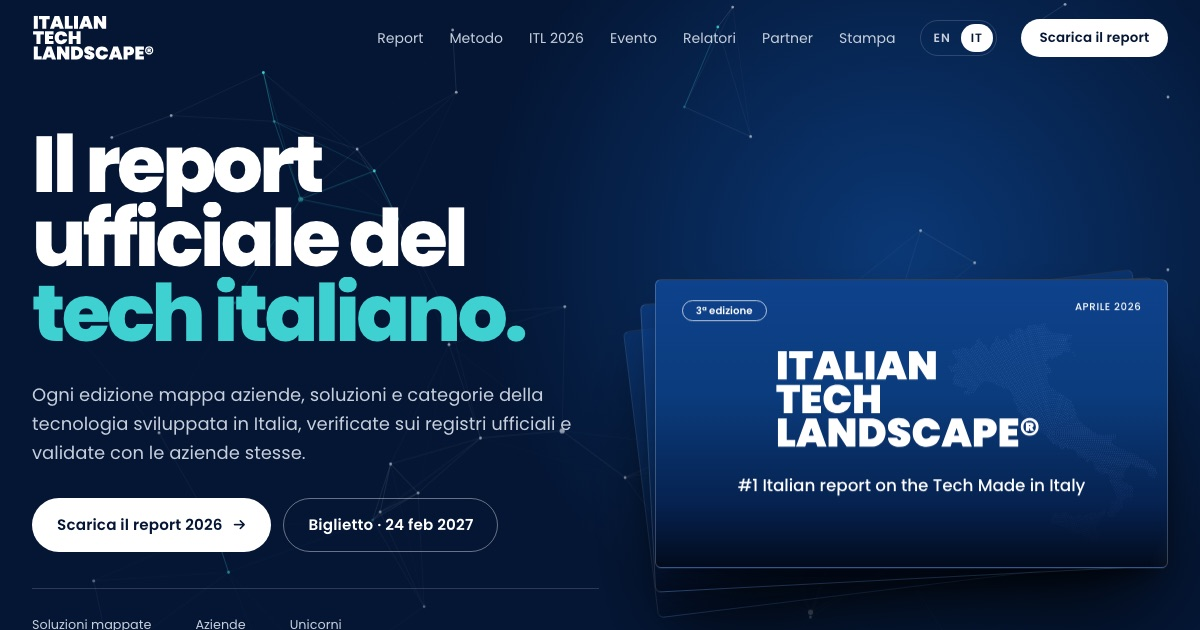
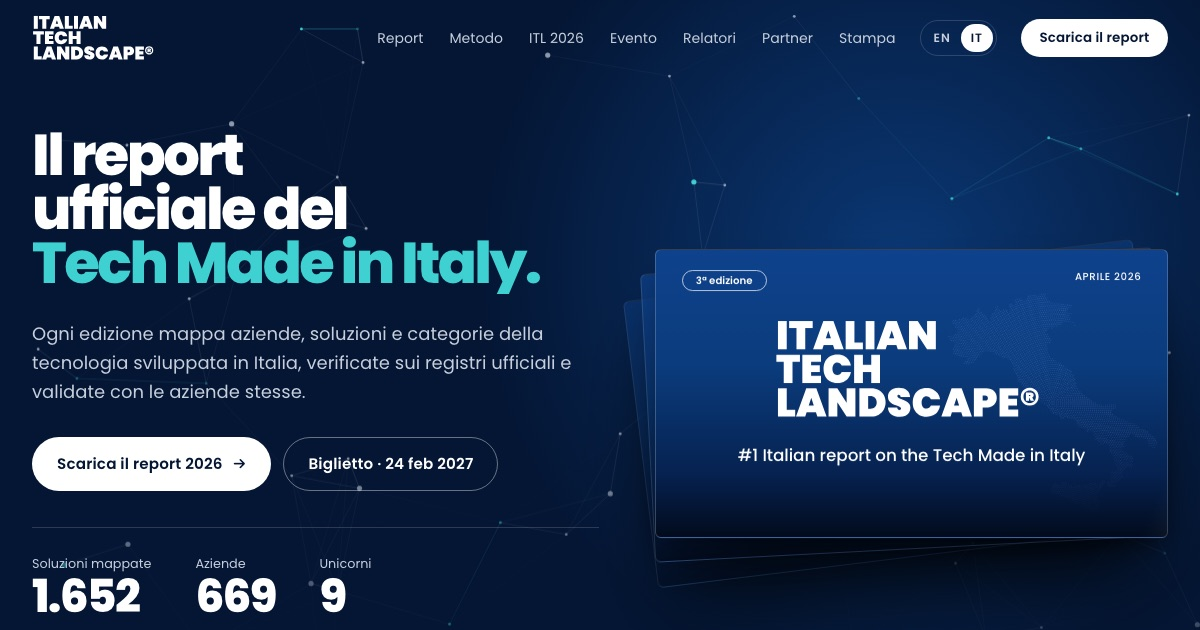
Client copy round: Italian H1, data heading, revenue figure, band and speaker titles, no PDF on submit
- IT headline: Il report ufficiale del Tech Made in Italy (own size so it stays on 3 lines)
- Audience CTA (IT): Scarica il report; findings heading: A report based on data / Un report basato sui dati
- Units in the big figures are white; 4th figure is now EUR 15,2bn total revenue (ITL 2026, PDF p. 26)
- Photo band: L'Italia e Tech! on the Italian page; speakers: Some of our speakers / Alcuni dei nostri Speakers
- Report form no longer opens the PDF: a thank-you panel replaces the form; the team is notified by email only
- New required field: How did you hear about us / Come hai conosciuto lo studio (values as on the client's form)
- [hidden] always wins over component display rules; Italian share image regenerated

diff --git a/it/index.html b/it/index.html
@@ -4,8 +4,8 @@
 <head>
   <meta charset="utf-8">
   <meta name="viewport" content="width=device-width, initial-scale=1, viewport-fit=cover">
-  <title>Italian Tech Landscape 2026 · Il report ufficiale del tech italiano</title>
-  <meta name="description" content="Il report ufficiale annuale sul tech italiano: 1.652 soluzioni e 669 aziende mappate e verificate. Scarica gratis il report 2026 e partecipa alla presentazione della 4ª edizione, 24 febbraio 2027, Milano." data-en="The official annual report on Italian tech: 1,652 solutions and 669 companies mapped and verified. Download the 2026 report free and join the 4th edition presentation, 24 February 2027, Milan." data-it="Il report ufficiale annuale sul tech italiano: 1.652 soluzioni e 669 aziende mappate e verificate. Scarica gratis il report 2026 e partecipa alla presentazione della 4ª edizione, 24 febbraio 2027, Milano.">
+  <title>Italian Tech Landscape 2026 · Il report ufficiale del Tech Made in Italy</title>
+  <meta name="description" content="Il report ufficiale annuale sul Tech Made in Italy: 1.652 soluzioni e 669 aziende mappate e verificate. Scarica gratis il report 2026 e partecipa alla presentazione della 4ª edizione, 24 febbraio 2027, Milano." data-en="The official annual report on Italian tech: 1,652 solutions and 669 companies mapped and verified. Download the 2026 report free and join the 4th edition presentation, 24 February 2027, Milan." data-it="Il report ufficiale annuale sul Tech Made in Italy: 1.652 soluzioni e 669 aziende mappate e verificate. Scarica gratis il report 2026 e partecipa alla presentazione della 4ª edizione, 24 febbraio 2027, Milano.">
   <meta name="robots" content="index, follow, max-image-preview:large">
   <meta name="theme-color" content="#041634">
   <link rel="canonical" href="https://italiantechlandscape.com/it/">
@@ -20,8 +20,8 @@
   <meta property="og:url" content="https://italiantechlandscape.com/it/">
   <meta property="og:locale" content="it_IT">
   <meta property="og:locale:alternate" content="en_GB">
-  <meta property="og:title" content="Italian Tech Landscape 2026 · Il report ufficiale del tech italiano">
-  <meta property="og:description" content="Il report ufficiale annuale sul tech italiano: 1.652 soluzioni e 669 aziende mappate e verificate. Scarica gratis il report 2026 e partecipa alla presentazione della 4ª edizione, 24 febbraio 2027, Milano.">
+  <meta property="og:title" content="Italian Tech Landscape 2026 · Il report ufficiale del Tech Made in Italy">
+  <meta property="og:description" content="Il report ufficiale annuale sul Tech Made in Italy: 1.652 soluzioni e 669 aziende mappate e verificate. Scarica gratis il report 2026 e partecipa alla presentazione della 4ª edizione, 24 febbraio 2027, Milano.">
   <meta property="og:image" content="https://italiantechlandscape.com/assets/og/og-it.jpg">
   <meta property="og:image:width" content="1200">
   <meta property="og:image:height" content="630">
@@ -79,6 +79,7 @@
     img, svg, canvas, video { display: block; max-width: 100%; }
     a { color: inherit; text-decoration-thickness: 1px; text-underline-offset: .22em; }
     button { font: inherit; color: inherit; }
+    [hidden] { display: none !important; }
     .sr-only { position: absolute; width: 1px; height: 1px; overflow: hidden; clip: rect(0 0 0 0); white-space: nowrap; }
     .skip { position: fixed; left: 12px; top: -60px; z-index: 100; background: var(--white); color: var(--ink); padding: 10px 14px; font-weight: 600; transition: top .2s; }
     .skip:focus { top: 12px; }
@@ -159,8 +160,10 @@
 
     /* Line mask rise */
     .lines .line { display: block; overflow: hidden; padding-bottom: .06em; margin-bottom: -.06em; white-space: nowrap; }
-    /* three fixed lines in both languages: sized so the longest ("ufficiale del", "tech italiano.") fits the copy column */
+    /* three fixed lines in both languages: sized so the longest ("Tech Made in Italy.") fits the copy column */
     .hero .display { font-size: clamp(3.1rem, 6.6vw, 6rem); }
+    /* Italian line 3 ("Tech Made in Italy.") is about 1.6x the English one: smaller size keeps it to 3 lines */
+    html[lang="it"] .hero .display { font-size: clamp(2.4rem, 4.8vw, 4.4rem); }
     .lines .line > span { display: inline-block; }
     .js .lines .line > span { transform: translateY(108%); animation: rise var(--dur-hero) var(--ease-out) forwards; }
     .js .lines .line:nth-child(2) > span { animation-delay: var(--stagger); }
@@ -238,7 +241,8 @@
     .figure::before { content: ""; position: absolute; left: 0; bottom: -1px; height: 1px; width: 100%; background: var(--accent); transform: scaleX(0); transform-origin: left; transition: transform 1.4s var(--ease-io); }
     .figure.in::before { transform: scaleX(1); }
     .big { font-size: clamp(4.6rem, 15vw, 13rem); line-height: .82; letter-spacing: -.07em; white-space: nowrap; }
-    .big .unit { color: var(--accent); }
+    .big .unit { color: inherit; }
+    .big .unit-sm { font-size: .42em; letter-spacing: -.02em; margin-left: .06em; }
     .figure-text { display: grid; gap: 12px; padding-bottom: 10px; }
     .figure-text p { margin: 0; font-size: clamp(1rem, 1.4vw, 1.15rem); }
     .figure-text .source { color: var(--on-ink-muted); }
@@ -400,6 +404,10 @@
     .check input { width: 20px; height: 20px; margin: 2px 0 0; accent-color: var(--accent); }
     .check input[aria-invalid="true"] { outline: 2px solid #F2A3B6; outline-offset: 2px; }
     .hp { position: absolute; left: -10000px; width: 1px; height: 1px; overflow: hidden; }
+    .gate-done { display: grid; gap: 16px; justify-items: start; padding: 8px 0 4px; }
+    .gate-done:focus { outline: none; }
+    .gate-done-mark { width: 52px; height: 52px; border-radius: 50%; background: rgba(62, 209, 209, .14); border: 1px solid var(--accent); position: relative; }
+    .gate-done-mark::after { content: ""; position: absolute; left: 17px; top: 15px; width: 16px; height: 9px; border-left: 2px solid var(--accent); border-bottom: 2px solid var(--accent); transform: rotate(-45deg); }
     .privacy-link { font-size: .8rem; color: var(--on-ink-muted); margin: -6px 0 0 34px; }
     .form-status { margin: 0; font-size: .9rem; min-height: 1.4em; }
     .form-status.ok { color: var(--accent); }
@@ -617,7 +625,7 @@
       <h1 class="display lines">
         <span class="line"><span data-en="The official" data-it="Il report">Il report</span></span>
         <span class="line"><span data-en="report on" data-it="ufficiale del">ufficiale del</span></span>
-        <span class="line"><span class="accent" data-en="Italian tech." data-it="tech italiano.">tech italiano.</span></span>
+        <span class="line"><span class="accent" data-en="Italian tech." data-it="Tech Made in Italy.">Tech Made in Italy.</span></span>
       </h1>
       <p class="lede after after-1" data-en="Every edition maps the companies, solutions and categories of technology developed in Italy, checked against official records and validated with the companies themselves." data-it="Ogni edizione mappa aziende, soluzioni e categorie della tecnologia sviluppata in Italia, verificate sui registri ufficiali e validate con le aziende stesse.">Ogni edizione mappa aziende, soluzioni e categorie della tecnologia sviluppata in Italia, verificate sui registri ufficiali e validate con le aziende stesse.</p>
       <div class="hero-actions after after-2">
@@ -687,7 +695,7 @@
 
     <div class="audience-head">
       <h3 class="h2 tr" id="audience-for"><span data-en="Written for the people who build, buy and back Italian tech." data-it="Pensato per chi crea, sceglie e finanzia il tech italiano.">Pensato per chi crea, sceglie e finanzia il tech italiano.</span></h3>
-      <div class="rv" style="--d:.15"><button type="button" class="btn btn-primary" data-open-gate><span data-en="Get your copy" data-it="Scarica la tua copia">Scarica la tua copia</span> <span class="arrow" aria-hidden="true">→</span></button></div>
+      <div class="rv" style="--d:.15"><button type="button" class="btn btn-primary" data-open-gate><span data-en="Get your copy" data-it="Scarica il report">Scarica il report</span> <span class="arrow" aria-hidden="true">→</span></button></div>
     </div>
     <dl class="audience" aria-labelledby="audience-for">
       <div class="rv">
@@ -723,7 +731,7 @@
   <div class="wrap">
     <div class="section-head">
       <p class="eyebrow rv" data-en="Key findings · 2026 edition" data-it="Dati chiave · edizione 2026">Dati chiave · edizione 2026</p>
-      <h2 class="h2 tr" id="findings-title"><span data-en="The sector, in four numbers." data-it="Il settore, in quattro numeri.">Il settore, in quattro numeri.</span></h2>
+      <h2 class="h2 tr" id="findings-title"><span data-en="A report based on data." data-it="Un report basato sui dati.">Un report basato sui dati.</span></h2>
     </div>
     <ul class="figures">
       <li class="figure rv">
@@ -748,10 +756,10 @@
         </div>
       </li>
       <li class="figure rv">
-        <p class="big num"><span data-count="9">9</span></p>
+        <p class="big num"><span data-count="15.2" data-decimals="1" data-prefix="€">€15,2</span><span class="unit unit-sm" data-en="bn" data-it="mld">mld</span></p>
         <div class="figure-text">
-          <p data-en="unicorns in the mapped ecosystem." data-it="unicorni nell'ecosistema mappato.">unicorni nell'ecosistema mappato.</p>
-          <p class="source">ITL 2026 · p. 19</p>
+          <p data-en="in total revenue across all the mapped categories." data-it="di fatturato totale, sommando tutte le categorie mappate.">di fatturato totale, sommando tutte le categorie mappate.</p>
+          <p class="source">ITL 2026 · p. 26</p>
         </div>
       </li>
     </ul>
@@ -763,7 +771,7 @@
   <img src="/assets/img/itl26/itl26-223.webp" alt="A full auditorium during the ITL 2026 presentation at Monterosa 91, Milan" data-parallax=".18" width="1280" height="854">
   <div class="wrap band-copy">
     <p class="eyebrow rv" data-en="ITL 2026 · Monterosa 91, Milan" data-it="ITL 2026 · Monterosa 91, Milano">ITL 2026 · Monterosa 91, Milano</p>
-    <p class="band-title" data-chars>Italy is Tech!</p>
+    <p class="band-title" data-chars data-chars-en="Italy is Tech!" data-chars-it="L’Italia è Tech!">L’Italia è Tech!</p>
   </div>
 </section>
 
@@ -903,7 +911,7 @@
     <div class="speakers-head">
       <div class="section-head">
         <p class="eyebrow rv" data-en="Speakers · 24 February 2027" data-it="Relatori · 24 febbraio 2027">Relatori · 24 febbraio 2027</p>
-        <h2 class="h2 tr" id="speakers-title"><span data-en="Who takes the stage." data-it="Chi sale sul palco.">Chi sale sul palco.</span></h2>
+        <h2 class="h2 tr" id="speakers-title"><span data-en="Some of our speakers." data-it="Alcuni dei nostri Speakers.">Alcuni dei nostri Speakers.</span></h2>
       </div>
       <div class="soon rv">
         <span class="btn btn-ghost soon-btn" aria-disabled="true"><span data-en="See the 2027 program" data-it="Scopri il programma 2027">Scopri il programma 2027</span></span>
@@ -1251,9 +1259,15 @@
     <div class="gate-head">
       <div style="display:grid;gap:10px">
         <h2 class="h3" id="gate-title" data-en="Download the 2026 report" data-it="Scarica il report 2026">Scarica il report 2026</h2>
-        <p class="source" data-en="ITL 2026, 3rd edition · PDF, 42 MB. Tell us who you are first: the report opens in a new tab after you submit." data-it="ITL 2026, 3ª edizione · PDF, 42 MB. Dicci prima chi sei: il report si apre in una nuova scheda dopo l'invio.">ITL 2026, 3ª edizione · PDF, 42 MB. Dicci prima chi sei: il report si apre in una nuova scheda dopo l'invio.</p>
+        <p class="source" data-en="ITL 2026, 3rd edition. Leave your details and our team will contact you by email." data-it="ITL 2026, 3ª edizione. Lascia i tuoi dati e il nostro team ti contatterà via email.">ITL 2026, 3ª edizione. Lascia i tuoi dati e il nostro team ti contatterà via email.</p>
       </div>
       <button type="button" class="x" data-close aria-label="Chiudi" data-en-aria="Close" data-it-aria="Chiudi">×</button>
+    </div>
+    <div class="gate-done" id="report-done" role="status" tabindex="-1" hidden>
+      <span class="gate-done-mark" aria-hidden="true"></span>
+      <h3 class="h3" data-en="Thank you for your interest in the report." data-it="Grazie per l'interesse verso il report.">Grazie per l'interesse verso il report.</h3>
+      <p class="prose" data-en="We have received your details. Our team will contact you by email soon." data-it="Abbiamo ricevuto i tuoi dati. Il nostro team ti contatterà presto via email.">Abbiamo ricevuto i tuoi dati. Il nostro team ti contatterà presto via email.</p>
+      <button type="button" class="btn btn-ghost" data-close><span data-en="Back to the page" data-it="Torna alla pagina">Torna alla pagina</span></button>
     </div>
     <form class="form" id="report-form" novalidate>
       <input type="hidden" name="type" value="report">
@@ -1390,6 +1404,18 @@
           <option value="Wearable Tech">Wearable Tech</option>
           <option value="Software House">Software House</option>
           <option value="Tutte" data-en="All categories" data-it="Tutte le categorie">Tutte le categorie</option>
+          <option value="Altro" data-en="Other" data-it="Altro">Altro</option>
+        </select>
+      </div>
+      <div class="field">
+        <label for="r-source" data-en="How did you hear about us?" data-it="Come hai conosciuto lo studio?">Come hai conosciuto lo studio?</label>
+        <select id="r-source" name="source" required>
+          <option value="" data-en="Select" data-it="Seleziona">Seleziona</option>
+          <option value="Social media">Social media</option>
+          <option value="Internet" data-en="Web search" data-it="Ricerca sul web">Ricerca sul web</option>
+          <option value="Newsletter">Newsletter</option>
+          <option value="Referenze" data-en="Recommendation" data-it="Passaparola o referenze">Passaparola o referenze</option>
+          <option value="Evento" data-en="Event" data-it="Evento">Evento</option>
           <option value="Altro" data-en="Other" data-it="Altro">Altro</option>
         </select>
       </div>

diff --git a/index-v4.html b/index-v4.html
@@ -4,7 +4,7 @@
   <meta charset="utf-8">
   <meta name="viewport" content="width=device-width, initial-scale=1, viewport-fit=cover">
   <title>Italian Tech Landscape 2026 · The official report on Italian tech</title>
-  <meta name="description" content="The official annual report on Italian tech: 1,652 solutions and 669 companies mapped and verified. Download the 2026 report free and join the 4th edition presentation, 24 February 2027, Milan." data-en="The official annual report on Italian tech: 1,652 solutions and 669 companies mapped and verified. Download the 2026 report free and join the 4th edition presentation, 24 February 2027, Milan." data-it="Il report ufficiale annuale sul tech italiano: 1.652 soluzioni e 669 aziende mappate e verificate. Scarica gratis il report 2026 e partecipa alla presentazione della 4ª edizione, 24 febbraio 2027, Milano.">
+  <meta name="description" content="The official annual report on Italian tech: 1,652 solutions and 669 companies mapped and verified. Download the 2026 report free and join the 4th edition presentation, 24 February 2027, Milan." data-en="The official annual report on Italian tech: 1,652 solutions and 669 companies mapped and verified. Download the 2026 report free and join the 4th edition presentation, 24 February 2027, Milan." data-it="Il report ufficiale annuale sul Tech Made in Italy: 1.652 soluzioni e 669 aziende mappate e verificate. Scarica gratis il report 2026 e partecipa alla presentazione della 4ª edizione, 24 febbraio 2027, Milano.">
   <meta name="robots" content="index, follow, max-image-preview:large">
   <meta name="theme-color" content="#041634">
   <link rel="canonical" href="https://italiantechlandscape.com/">
@@ -78,6 +78,7 @@
     img, svg, canvas, video { display: block; max-width: 100%; }
     a { color: inherit; text-decoration-thickness: 1px; text-underline-offset: .22em; }
     button { font: inherit; color: inherit; }
+    [hidden] { display: none !important; }
     .sr-only { position: absolute; width: 1px; height: 1px; overflow: hidden; clip: rect(0 0 0 0); white-space: nowrap; }
     .skip { position: fixed; left: 12px; top: -60px; z-index: 100; background: var(--white); color: var(--ink); padding: 10px 14px; font-weight: 600; transition: top .2s; }
     .skip:focus { top: 12px; }
@@ -158,8 +159,10 @@
 
     /* Line mask rise */
     .lines .line { display: block; overflow: hidden; padding-bottom: .06em; margin-bottom: -.06em; white-space: nowrap; }
-    /* three fixed lines in both languages: sized so the longest ("ufficiale del", "tech italiano.") fits the copy column */
+    /* three fixed lines in both languages: sized so the longest ("Tech Made in Italy.") fits the copy column */
     .hero .display { font-size: clamp(3.1rem, 6.6vw, 6rem); }
+    /* Italian line 3 ("Tech Made in Italy.") is about 1.6x the English one: smaller size keeps it to 3 lines */
+    html[lang="it"] .hero .display { font-size: clamp(2.4rem, 4.8vw, 4.4rem); }
     .lines .line > span { display: inline-block; }
     .js .lines .line > span { transform: translateY(108%); animation: rise var(--dur-hero) var(--ease-out) forwards; }
     .js .lines .line:nth-child(2) > span { animation-delay: var(--stagger); }
@@ -237,7 +240,8 @@
     .figure::before { content: ""; position: absolute; left: 0; bottom: -1px; height: 1px; width: 100%; background: var(--accent); transform: scaleX(0); transform-origin: left; transition: transform 1.4s var(--ease-io); }
     .figure.in::before { transform: scaleX(1); }
     .big { font-size: clamp(4.6rem, 15vw, 13rem); line-height: .82; letter-spacing: -.07em; white-space: nowrap; }
-    .big .unit { color: var(--accent); }
+    .big .unit { color: inherit; }
+    .big .unit-sm { font-size: .42em; letter-spacing: -.02em; margin-left: .06em; }
     .figure-text { display: grid; gap: 12px; padding-bottom: 10px; }
     .figure-text p { margin: 0; font-size: clamp(1rem, 1.4vw, 1.15rem); }
     .figure-text .source { color: var(--on-ink-muted); }
@@ -399,6 +403,10 @@
     .check input { width: 20px; height: 20px; margin: 2px 0 0; accent-color: var(--accent); }
     .check input[aria-invalid="true"] { outline: 2px solid #F2A3B6; outline-offset: 2px; }
     .hp { position: absolute; left: -10000px; width: 1px; height: 1px; overflow: hidden; }
+    .gate-done { display: grid; gap: 16px; justify-items: start; padding: 8px 0 4px; }
+    .gate-done:focus { outline: none; }
+    .gate-done-mark { width: 52px; height: 52px; border-radius: 50%; background: rgba(62, 209, 209, .14); border: 1px solid var(--accent); position: relative; }
+    .gate-done-mark::after { content: ""; position: absolute; left: 17px; top: 15px; width: 16px; height: 9px; border-left: 2px solid var(--accent); border-bottom: 2px solid var(--accent); transform: rotate(-45deg); }
     .privacy-link { font-size: .8rem; color: var(--on-ink-muted); margin: -6px 0 0 34px; }
     .form-status { margin: 0; font-size: .9rem; min-height: 1.4em; }
     .form-status.ok { color: var(--accent); }
@@ -616,7 +624,7 @@
       <h1 class="display lines">
         <span class="line"><span data-en="The official" data-it="Il report">The official</span></span>
         <span class="line"><span data-en="report on" data-it="ufficiale del">report on</span></span>
-        <span class="line"><span class="accent" data-en="Italian tech." data-it="tech italiano.">Italian tech.</span></span>
+        <span class="line"><span class="accent" data-en="Italian tech." data-it="Tech Made in Italy.">Italian tech.</span></span>
       </h1>
       <p class="lede after after-1" data-en="Every edition maps the companies, solutions and categories of technology developed in Italy, checked against official records and validated with the companies themselves." data-it="Ogni edizione mappa aziende, soluzioni e categorie della tecnologia sviluppata in Italia, verificate sui registri ufficiali e validate con le aziende stesse.">Every edition maps the companies, solutions and categories of technology developed in Italy, checked against official records and validated with the companies themselves.</p>
       <div class="hero-actions after after-2">
@@ -686,7 +694,7 @@
 
     <div class="audience-head">
       <h3 class="h2 tr" id="audience-for"><span data-en="Written for the people who build, buy and back Italian tech." data-it="Pensato per chi crea, sceglie e finanzia il tech italiano.">Written for the people who build, buy and back Italian tech.</span></h3>
-      <div class="rv" style="--d:.15"><button type="button" class="btn btn-primary" data-open-gate><span data-en="Get your copy" data-it="Scarica la tua copia">Get your copy</span> <span class="arrow" aria-hidden="true">→</span></button></div>
+      <div class="rv" style="--d:.15"><button type="button" class="btn btn-primary" data-open-gate><span data-en="Get your copy" data-it="Scarica il report">Get your copy</span> <span class="arrow" aria-hidden="true">→</span></button></div>
     </div>
     <dl class="audience" aria-labelledby="audience-for">
       <div class="rv">
@@ -722,7 +730,7 @@
   <div class="wrap">
     <div class="section-head">
       <p class="eyebrow rv" data-en="Key findings · 2026 edition" data-it="Dati chiave · edizione 2026">Key findings · 2026 edition</p>
-      <h2 class="h2 tr" id="findings-title"><span data-en="The sector, in four numbers." data-it="Il settore, in quattro numeri.">The sector, in four numbers.</span></h2>
+      <h2 class="h2 tr" id="findings-title"><span data-en="A report based on data." data-it="Un report basato sui dati.">A report based on data.</span></h2>
     </div>
     <ul class="figures">
       <li class="figure rv">
@@ -747,10 +755,10 @@
         </div>
       </li>
       <li class="figure rv">
-        <p class="big num"><span data-count="9">9</span></p>
+        <p class="big num"><span data-count="15.2" data-decimals="1" data-prefix="€">€15,2</span><span class="unit unit-sm" data-en="bn" data-it="mld">bn</span></p>
         <div class="figure-text">
-          <p data-en="unicorns in the mapped ecosystem." data-it="unicorni nell'ecosistema mappato.">unicorns in the mapped ecosystem.</p>
-          <p class="source">ITL 2026 · p. 19</p>
+          <p data-en="in total revenue across all the mapped categories." data-it="di fatturato totale, sommando tutte le categorie mappate.">in total revenue across all the mapped categories.</p>
+          <p class="source">ITL 2026 · p. 26</p>
         </div>
       </li>
     </ul>
@@ -762,7 +770,7 @@
   <img src="assets/img/itl26/itl26-223.webp" alt="A full auditorium during the ITL 2026 presentation at Monterosa 91, Milan" data-parallax=".18" width="1280" height="854">
   <div class="wrap band-copy">
     <p class="eyebrow rv" data-en="ITL 2026 · Monterosa 91, Milan" data-it="ITL 2026 · Monterosa 91, Milano">ITL 2026 · Monterosa 91, Milan</p>
-    <p class="band-title" data-chars>Italy is Tech!</p>
+    <p class="band-title" data-chars data-chars-en="Italy is Tech!" data-chars-it="L’Italia è Tech!">Italy is Tech!</p>
   </div>
 </section>
 
@@ -902,7 +910,7 @@
     <div class="speakers-head">
       <div class="section-head">
         <p class="eyebrow rv" data-en="Speakers · 24 February 2027" data-it="Relatori · 24 febbraio 2027">Speakers · 24 February 2027</p>
-        <h2 class="h2 tr" id="speakers-title"><span data-en="Who takes the stage." data-it="Chi sale sul palco.">Who takes the stage.</span></h2>
+        <h2 class="h2 tr" id="speakers-title"><span data-en="Some of our speakers." data-it="Alcuni dei nostri Speakers.">Some of our speakers.</span></h2>
       </div>
       <div class="soon rv">
         <span class="btn btn-ghost soon-btn" aria-disabled="true"><span data-en="See the 2027 program" data-it="Scopri il programma 2027">See the 2027 program</span></span>
@@ -1250,9 +1258,15 @@
     <div class="gate-head">
       <div style="display:grid;gap:10px">
         <h2 class="h3" id="gate-title" data-en="Download the 2026 report" data-it="Scarica il report 2026">Download the 2026 report</h2>
-        <p class="source" data-en="ITL 2026, 3rd edition · PDF, 42 MB. Tell us who you are first: the report opens in a new tab after you submit." data-it="ITL 2026, 3ª edizione · PDF, 42 MB. Dicci prima chi sei: il report si apre in una nuova scheda dopo l'invio.">ITL 2026, 3rd edition · PDF, 42 MB. Tell us who you are first: the report opens in a new tab after you submit.</p>
+        <p class="source" data-en="ITL 2026, 3rd edition. Leave your details and our team will contact you by email." data-it="ITL 2026, 3ª edizione. Lascia i tuoi dati e il nostro team ti contatterà via email.">ITL 2026, 3rd edition. Leave your details and our team will contact you by email.</p>
       </div>
       <button type="button" class="x" data-close aria-label="Close" data-en-aria="Close" data-it-aria="Chiudi">×</button>
+    </div>
+    <div class="gate-done" id="report-done" role="status" tabindex="-1" hidden>
+      <span class="gate-done-mark" aria-hidden="true"></span>
+      <h3 class="h3" data-en="Thank you for your interest in the report." data-it="Grazie per l'interesse verso il report.">Thank you for your interest in the report.</h3>
+      <p class="prose" data-en="We have received your details. Our team will contact you by email soon." data-it="Abbiamo ricevuto i tuoi dati. Il nostro team ti contatterà presto via email.">We have received your details. Our team will contact you by email soon.</p>
+      <button type="button" class="btn btn-ghost" data-close><span data-en="Back to the page" data-it="Torna alla pagina">Back to the page</span></button>
     </div>
     <form class="form" id="report-form" novalidate>
       <input type="hidden" name="type" value="report">
@@ -1389,6 +1403,18 @@
           <option value="Wearable Tech">Wearable Tech</option>
           <option value="Software House">Software House</option>
           <option value="Tutte" data-en="All categories" data-it="Tutte le categorie">All categories</option>
+          <option value="Altro" data-en="Other" data-it="Altro">Other</option>
+        </select>
+      </div>
+      <div class="field">
+        <label for="r-source" data-en="How did you hear about us?" data-it="Come hai conosciuto lo studio?">How did you hear about us?</label>
+        <select id="r-source" name="source" required>
+          <option value="" data-en="Select" data-it="Seleziona">Select</option>
+          <option value="Social media">Social media</option>
+          <option value="Internet" data-en="Web search" data-it="Ricerca sul web">Web search</option>
+          <option value="Newsletter">Newsletter</option>
+          <option value="Referenze" data-en="Recommendation" data-it="Passaparola o referenze">Recommendation</option>
+          <option value="Evento" data-en="Event" data-it="Evento">Event</option>
           <option value="Altro" data-en="Other" data-it="Altro">Other</option>
         </select>
       </div>

diff --git a/site.js b/site.js
@@ -4,7 +4,6 @@
 
   /* ================= Config ================= */
   const ENDPOINT = "/api/leads.php";   // OVH mail handler, see api/leads.php
-  const REPORT_URL = "https://www.latechmadeinitaly.com/wp-content/uploads/2026/04/ITL-26-3rd-Edition-1.pdf";
   const EVENT_DAY = new Date("2027-02-24T00:00:00+01:00");
 
   const $ = (s, c = document) => c.querySelector(s);
@@ -14,10 +13,10 @@
 
   /* ================= Language ================= */
   const MSG = {
-    en: { sending: "Sending…", invalid: "Please complete the required fields.", reportOk: "Thank you. The report is opening in a new tab.", partnerOk: "Thank you. We will reply to your enquiry shortly.", error: "Something went wrong. Please try again in a moment." },
-    it: { sending: "Invio in corso…", invalid: "Compila i campi obbligatori.", reportOk: "Grazie. Il report si apre in una nuova scheda.", partnerOk: "Grazie. Ti risponderemo a breve.", error: "Qualcosa non ha funzionato. Riprova tra poco." }
+    en: { sending: "Sending…", invalid: "Please complete the required fields.", reportOk: "Thank you for your interest in the report. Our team will contact you by email soon.", partnerOk: "Thank you. We will reply to your enquiry shortly.", error: "Something went wrong. Please try again in a moment." },
+    it: { sending: "Invio in corso…", invalid: "Compila i campi obbligatori.", reportOk: "Grazie per l'interesse verso il report. Il nostro team ti contatterà presto via email.", partnerOk: "Grazie. Ti risponderemo a breve.", error: "Qualcosa non ha funzionato. Riprova tra poco." }
   };
-  const TITLE = { en: "Italian Tech Landscape 2026 · The official report on Italian tech", it: "Italian Tech Landscape 2026 · Il report ufficiale del tech italiano" };
+  const TITLE = { en: "Italian Tech Landscape 2026 · The official report on Italian tech", it: "Italian Tech Landscape 2026 · Il report ufficiale del Tech Made in Italy" };
   // Each language has its own URL (/ and /it/) so search engines index both
   const PAGE_LANG = document.documentElement.lang === "it" ? "it" : "en";
   const LANG_URL = { en: "/", it: "/it/" };
@@ -65,7 +64,8 @@
 
   /* ================= Char split (band title) ================= */
   $$("[data-chars]").forEach((el) => {
-    const text = el.textContent;
+    // per-language text lives in data-chars-<lang> (not data-<lang>, so applyLang never replaces the letter spans)
+    const text = el.getAttribute("data-chars-" + PAGE_LANG) || el.textContent;
     el.setAttribute("aria-label", text);
     el.textContent = "";
     [...text].forEach((c, i) => {
@@ -405,7 +405,13 @@
     try {
       const res = await fetch(ENDPOINT, { method: "POST", headers: { "Content-Type": "application/json" }, body: JSON.stringify(serialise(form)) });
       if (!res.ok) throw new Error("HTTP " + res.status);
-      if (form.id === "report-form") { setStatus(form, m.reportOk, "ok"); store("itl-downloaded", "1"); window.open(REPORT_URL, "_blank", "noopener"); }
+      if (form.id === "report-form") {
+        // No PDF and no email to the visitor: the team is notified and gets in touch. Show the thank-you panel.
+        setStatus(form, m.reportOk, "ok");
+        store("itl-downloaded", "1");
+        const done = $("#report-done");
+        if (done) { form.hidden = true; done.hidden = false; done.focus(); }
+      }
       else { setStatus(form, m.partnerOk, "ok"); form.reset(); }
     } catch (err) {
       setStatus(form, m.error, "err");

diff --git a/api/leads.php b/api/leads.php
@@ -81,6 +81,7 @@ $lead = [
   'role' => clean($body['role'] ?? '', MAX['role']),
   'size' => clean($body['size'] ?? '', 20),
   'interest' => clean($body['interest'] ?? '', 80),
+  'source' => clean($body['source'] ?? '', 40),
   'tier' => clean($body['tier'] ?? '', 20),
   'message' => clean($body['message'] ?? '', MAX['message']),
   'newsletter' => ($body['newsletter'] ?? false) === true,
@@ -89,7 +90,7 @@ $lead = [
 ];
 
 if ($type === 'report') {
-  foreach (['firstName', 'lastName', 'company', 'role', 'size', 'interest'] as $k) if ($lead[$k] === '') $errors[] = $k;
+  foreach (['firstName', 'lastName', 'company', 'role', 'size', 'interest', 'source'] as $k) if ($lead[$k] === '') $errors[] = $k;
 } elseif ($type === 'partner') {
   foreach (['name', 'company'] as $k) if ($lead[$k] === '') $errors[] = $k;
 } else {
@@ -101,7 +102,7 @@ if ($errors) reply(422, ['ok' => false, 'errors' => $errors]);
 $report = $type === 'report';
 $who = $report ? $lead['firstName'] . ' ' . $lead['lastName'] : $lead['name'];
 $rows = $report
-  ? [['Nome', $who], ['Email', $email], ['Azienda', $lead['company']], ['Ruolo', $lead['role']], ['Dimensione azienda', $lead['size']], ['Categoria di interesse', $lead['interest']], ['Newsletter', $lead['newsletter'] ? 'Sì' : 'No']]
+  ? [['Nome', $who], ['Email', $email], ['Azienda', $lead['company']], ['Ruolo', $lead['role']], ['Dimensione azienda', $lead['size']], ['Categoria di interesse', $lead['interest']], ['Come ci ha conosciuto', $lead['source']], ['Newsletter', $lead['newsletter'] ? 'Sì' : 'No']]
   : [['Nome', $who], ['Email', $email], ['Azienda', $lead['company']], ['Partnership', $lead['tier'] ?: 'Non ancora deciso'], ['Messaggio', $lead['message'] ?: '—']];
 $rows[] = ['Lingua del sito', $lead['lang']];
 $rows[] = ['Inviato il', $lead['submittedAt']];

diff --git a/tools/build-it.py b/tools/build-it.py
@@ -50,11 +50,12 @@ def tag_swap(m):
     return tag
 
 s = re.sub(r'<\w+\b[^>]*\sdata-it(?:-aria|-label)?="[^"]*"[^>]*>', tag_swap, s)
+s = re.sub(r'(<p class="band-title"[^>]*data-chars-it="([^"]*)"[^>]*>)[^<]*(</p>)', lambda m: m.group(1) + m.group(2) + m.group(3), s)
 s = re.sub(r'(<p class="fill"[^>]*data-fill-it="([^"]*)"[^>]*>)[^<]*(</p>)',
            lambda m: m.group(1) + m.group(2).replace("*", "") + m.group(3), s)
 
 # 3. Page-level: language, title, canonical, social tags
-TITLE_IT = "Italian Tech Landscape 2026 · Il report ufficiale del tech italiano"
+TITLE_IT = "Italian Tech Landscape 2026 · Il report ufficiale del Tech Made in Italy"
 desc_it = re.search(r'<meta name="description"[^>]*data-it="([^"]*)"', src).group(1)
 s = s.replace('<html lang="en">', '<html lang="it">', 1)
 s = re.sub(r"<title>[^<]*</title>", f"<title>{TITLE_IT}</title>", s, count=1)
